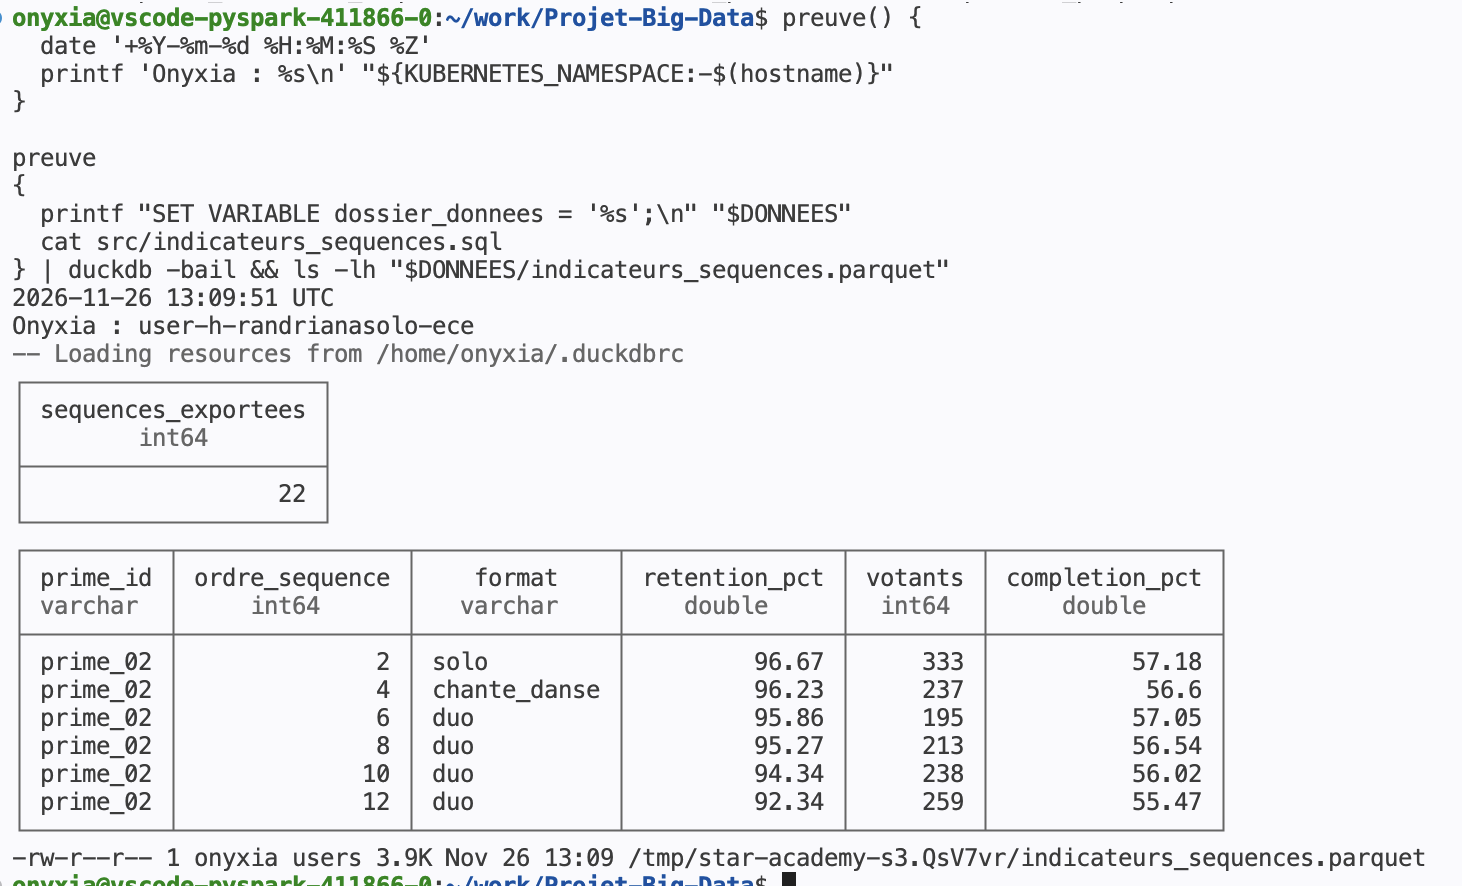
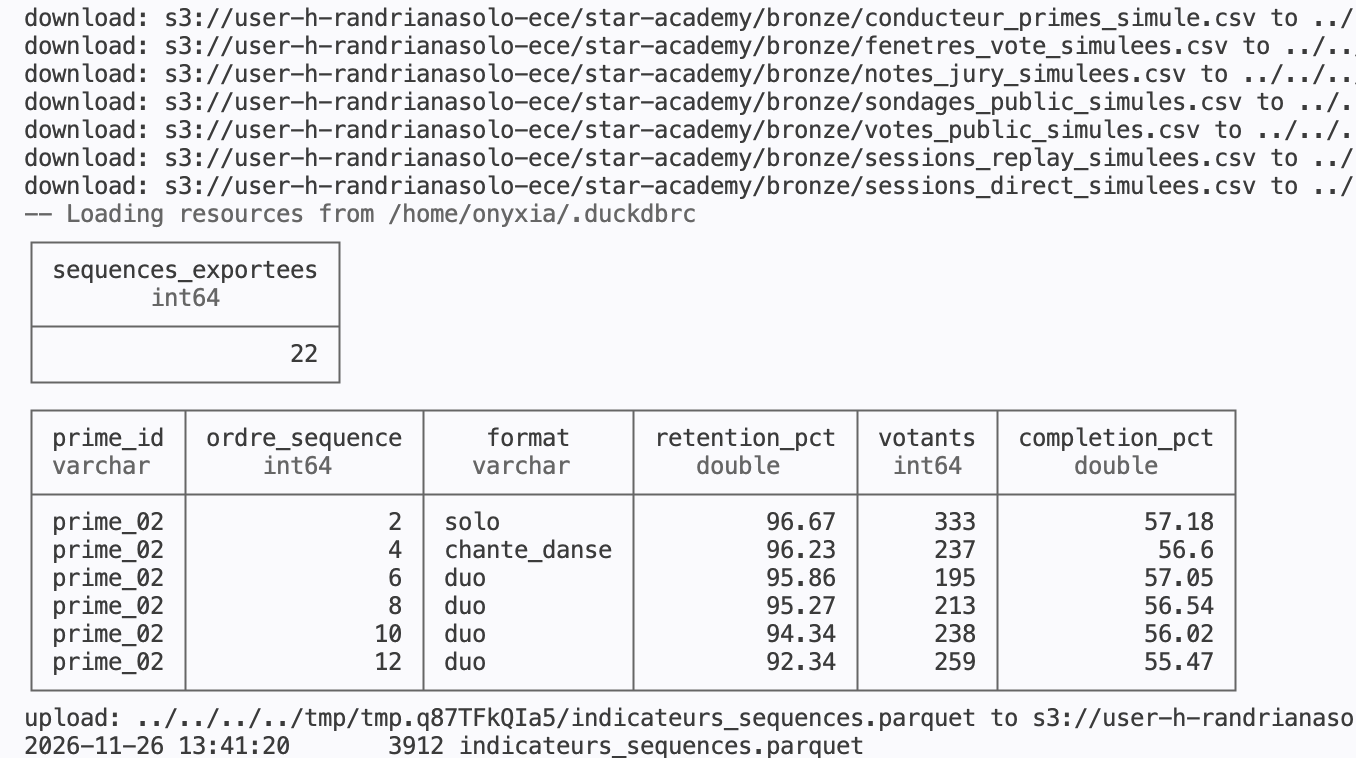
Documente le parcours Bronze et Gold et actualise les captures

Changed region(s): [[0.0, 0.0, 1.0, 1.0], [0.9912, 0.1821, 1.0, 0.2731], [0.9912, 0.0, 1.0, 0.0303]]

diff --git a/README.md b/README.md
@@ -2,33 +2,38 @@
 
 ## Auteurs
 
-- [NOM Prénom]
-- [NOM Prénom]
+- Pia
+- Harisoa
 
 ## Jeu de données
 
-**Star Academy 2025–2026 — audience simulée.** Le jeu a été généré le **26 novembre 2026**. Il comprend **7 CSV, 69 698 lignes et 4 889 399 octets hors compression (4,89 Mo)**. Licence du jeu généré — [à renseigner par les auteurs].
+**Star Academy 2025–2026 — audience simulée** · Généré le **26 novembre 2026** · **7 CSV, 69 698 lignes de données, 4 889 399 octets hors compression (4,89 Mo)**.  
+**Licence du jeu généré** — [à renseigner par les auteurs].
 
-Nous avons utilisé une IA pour effectuer un **relevé ciblé de sources publiques** sur les primes du **25 octobre et du 1er novembre 2025**. Cette méthode a remplacé le scraping automatisé. Le relevé a fourni une sélection de prestations, puis un **générateur Python à graine fixe** a réglé le volume des données simulées pour respecter la limite de 5 Mo et permettre de reproduire les mêmes CSV.
+Nous avons utilisé une IA pour effectuer un relevé ciblé de sources publiques sur les primes des **25 octobre et 1er novembre 2025**. Ce relevé a remplacé le scraping automatisé et fourni une sélection de prestations, avec leurs formats et les artistes invités lorsqu’ils étaient documentés. Un générateur Python à graine fixe a ensuite produit un jeu reproductible dont le volume respecte la limite de **1 à 5 Mo**.
 
-Le **conducteur** associe les prestations documentées à des horaires et à un ordre de passage reconstruits. Les six autres CSV contiennent les sessions de direct, les notes du jury, les sondages du public, les fenêtres de vote, les votes et les lectures en replay. Ces six sources sont simulées. Les résultats décrivent donc le scénario généré. Les URL figurent dans le conducteur et la méthode est détaillée dans [PROVENANCE.md](PROVENANCE.md).
+Le **conducteur** rattache ces prestations à des séquences dont l’ordre et les horaires ont été reconstruits pour le projet. Les six autres CSV simulent les sessions en direct, les notes du jury, les sondages du public, les fenêtres de vote, les votes et les lectures en replay. Ces données permettent de tester ensemble trois formes d’engagement. Les résultats décrivent le scénario simulé. La méthode et les sources sont détaillées dans [PROVENANCE.md](PROVENANCE.md).
 
-Sources publiques — [TF1+ · 25 octobre](https://www.tf1.fr/tf1/star-academy/videos/star-academy-2025-prime-2-partie-1-du-25-octobre-2025-04437941.html) · [TF1+ · 1er novembre](https://www.tf1.fr/tf1/star-academy/videos/star-academy-2025-prime-3-partie-1-du-1-novembre-2025-95947030.html) · [Stars Actu · programme annoncé du 25 octobre](https://www.stars-actu.fr/2025/10/star-academy-les-duos-et-chansons-du-2eme-prime-du-25-octobre-devoiles/)
+[TF1+ · Prime du 25 octobre](https://www.tf1.fr/tf1/star-academy/videos/star-academy-2025-prime-2-partie-1-du-25-octobre-2025-04437941.html) · [TF1+ · Prime du 1er novembre](https://www.tf1.fr/tf1/star-academy/videos/star-academy-2025-prime-3-partie-1-du-1-novembre-2025-95947030.html) · [Stars Actu · Programme annoncé du 25 octobre](https://www.stars-actu.fr/2025/10/star-academy-les-duos-et-chansons-du-2eme-prime-du-25-octobre-devoiles/)
 
 ## Problématique
 
 Quels formats et moments du prime sont associés à la meilleure rétention en direct, au plus grand nombre de votants et à la meilleure complétion en replay ?
 
-## Chemins S3
+## Architecture et chemins S3
 
-| Données | Chemin |
-|---|---|
-| Sept CSV d’entrée | `s3://user-h-randrianasolo-ece/star-academy/raw/` |
-| Indicateurs par séquence | `s3://user-h-randrianasolo-ece/star-academy/processed/indicateurs_sequences.parquet` |
+| Couche | Contenu | Chemin |
+|---|---|---|
+| **Bronze** | Les sept CSV d’entrée | `s3://user-h-randrianasolo-ece/star-academy/bronze/` |
+| **Gold** | Le Parquet final, avec une ligne par séquence | `s3://user-h-randrianasolo-ece/star-academy/gold/indicateurs_sequences.parquet` |
+
+L’AWS CLI récupère les CSV Bronze dans la session Onyxia. DuckDB calcule les indicateurs à partir de ces fichiers, puis l’AWS CLI publie le Parquet dans Gold.
+
+![Vue du stockage Onyxia avec les préfixes Bronze et Gold](capture/00_s3_architecture_bronze_gold.png)
 
 ## Reproduction
 
-Depuis la racine du dépôt, dans le terminal Bash d’Onyxia, avec **AWS CLI**, **DuckDB** et le profil S3 `default` configuré, exécuter le bloc suivant.
+Depuis la racine du dépôt, dans le terminal Bash d’Onyxia, utiliser **AWS CLI**, **DuckDB** et le profil S3 `default` avec les droits de lecture sur Bronze et d’écriture sur Gold.
 
 ```bash
 (
@@ -36,7 +41,7 @@ Depuis la racine du dépôt, dans le terminal Bash d’Onyxia, avec **AWS CLI**,
   S3="s3://user-h-randrianasolo-ece/star-academy"
   DONNEES=$(mktemp -d)
 
-  aws s3 --profile default cp "$S3/raw/" "$DONNEES/" \
+  aws s3 --profile default cp "$S3/bronze/" "$DONNEES/" \
     --recursive --exclude "*" --include "*.csv"
 
   {
@@ -45,7 +50,7 @@ Depuis la racine du dépôt, dans le terminal Bash d’Onyxia, avec **AWS CLI**,
   } | duckdb -bail
 
   aws s3 --profile default cp "$DONNEES/indicateurs_sequences.parquet" \
-    "$S3/processed/indicateurs_sequences.parquet"
+    "$S3/gold/indicateurs_sequences.parquet"
 
   {
     printf "SET VARIABLE resultat_parquet = '%s';\n" "$DONNEES/indicateurs_sequences.parquet"
@@ -54,48 +59,54 @@ Depuis la racine du dépôt, dans le terminal Bash d’Onyxia, avec **AWS CLI**,
 )
 ```
 
-Pour relancer le traitement, rejouer le bloc complet. Chaque exécution récupère les entrées dans un nouveau dossier temporaire et publie le résultat à la même adresse S3. Pour régénérer les entrées, exécuter `python3 src/generer_donnees.py`, puis déposer les sept CSV produits sous `star-academy/raw/`.
+Pour **relancer le pipeline**, rejouer le bloc complet. Il crée un nouveau dossier temporaire et republie le Parquet à la même adresse S3. Pour **reconstituer les entrées**, exécuter `python3 src/generer_donnees.py`, puis déposer les sept CSV produits dans Bronze.
 
 ## Preuves d’exécution
 
-### 01 — Ingestion des données sur S3
+### 01 — Dépôt des données brutes dans Bronze
 
-La liste S3 affiche les **sept CSV** et leur taille cumulée de **4 889 399 octets**. Ce contrôle permet de vérifier que les objets attendus sont disponibles avant le traitement.
+La liste S3 permet de comparer le contenu déposé au jeu attendu, soit **7 CSV et 4 889 399 octets**. Ce contrôle repère un transfert incomplet avant que le pipeline ne lise les fichiers.
 
-![Liste des sept CSV et taille totale sur S3](capture/01_s3_donnees_brutes.png)
+![Liste des sept CSV et taille cumulée dans Bronze](capture/01_s3_donnees_brutes.png)
 
 ### 02 — Lecture du conducteur dans DuckDB
 
-DuckDB lit la copie du conducteur téléchargée depuis S3 dans Onyxia et compte **22 séquences, dont 10 prestations**. Le conducteur fournit les horaires et les identifiants qui permettent de rattacher les événements aux séquences.
+DuckDB lit la copie du conducteur récupérée depuis S3 et compte **22 séquences, dont 10 prestations**. Le conducteur fournit les horaires pour rattacher les événements du direct aux séquences et les identifiants de prestation pour relier les replays.
 
 ![Lecture du conducteur et comptage des séquences et prestations](capture/02_duckdb_lecture_csv.png)
 
 ### 03 — Contrôles qualité avant les jointures
 
-Les requêtes vérifient l’unicité des identifiants de séquence et de vote, l’unicité des fenêtres et la validité du rattachement des votes. Une clé de fenêtre dupliquée pourrait compter deux fois un même vote. Un vote hors fenêtre doit être écarté du calcul.
+Les contrôles portent sur l’unicité des identifiants de séquence et de vote, l’unicité des clés de fenêtre et la validité du rattachement des votes. Une fenêtre dupliquée pourrait multiplier les votes à la jointure. Le contrôle temporel vérifie qu’un vote se situe entre l’ouverture incluse et la fermeture exclue.
 
 ![Compteurs des contrôles qualité dans DuckDB](capture/03_duckdb_controles_qualite.png)
 
 ### 04 — Calcul des indicateurs par séquence
 
-Le SQL agrège le direct, les votes et les replays séparément avant de les joindre au conducteur. Cela évite, par exemple, de répéter un vote pour chaque lecture replay. La sortie contient **une ligne par séquence**, avec les effectifs nécessaires pour interpréter les taux.
+Le pipeline agrège le direct, les votes et les replays séparément avant de les joindre au conducteur. Cela évite de compter un vote autant de fois qu’il y a de lectures en replay. La sortie conserve **une ligne par séquence**, avec les effectifs utilisés pour calculer et interpréter les taux.
 
 ![Exécution du pipeline DuckDB et aperçu des indicateurs](capture/04_duckdb_execution_pipeline.png)
 
-### 05 — Publication du résultat sur S3
+### 05 — Publication du résultat dans Gold
 
-Le fichier `indicateurs_sequences.parquet` apparaît dans `processed/` avec une taille de **3 901 octets**. Cette étape rend le résultat accessible après la fin de la session Onyxia et permet de le retélécharger pour la vérification.
+Le fichier `indicateurs_sequences.parquet` est publié sous `gold/`. La liste S3 vérifie que le résultat est disponible après la fin de la session Onyxia et qu’il peut être récupéré pour une autre analyse.
 
-![Fichier Parquet publié dans le préfixe processed](capture/05_s3_donnees_traitees.png)
+![Fichier Parquet des indicateurs publié dans Gold](capture/05_s3_donnees_traitees.png)
 
-### 06 — Vérification indépendante
+### 06 — Vérification indépendante du comptage
 
-Un calcul Python repart des CSV bruts et utilise les horaires de la séquence et de sa fenêtre de vote. Pour `prime_02_seq_02`, il retrouve **333 votes et 333 votants distincts**, les mêmes valeurs que dans le Parquet téléchargé depuis S3.
+Python relit les CSV bruts et recompte les votes dans les bornes de la séquence et de la fenêtre de vote. Pour `prime_02_seq_02`, il retrouve **333 votes et 333 votants distincts**, comme dans le Parquet récupéré depuis S3. Cet accord vérifie le comptage sur une séquence avec une autre implémentation.
 
 ![Comparaison du recomptage Python et des valeurs du Parquet](capture/06_verification_independante.png)
 
 ### 07 — Comparaison des formats et des moments du prime
 
-Dans la simulation, la rétention atteint **94,97 % en début de prime** et **86,43 % en fin de prime**, soit **8,54 points d’écart**. Le solo affiche la meilleure complétion parmi les formats observés (**56,52 %**, sur deux prestations). Le battle arrive en tête pour les votants (**629**, sur une seule séquence). Les effectifs par groupe et l’ouverture des fenêtres de vote sont à prendre en compte pour interpréter ces résultats.
+| Indicateur | Résultat dans la simulation |
+|---|---|
+| **Rétention en direct** | **94,97 % en début de prime** et **86,43 % en fin de prime**, soit **8,54 points d’écart**. |
+| **Vote** | Le battle réunit **629 votants**, sur une seule séquence. |
+| **Complétion en replay** | Le solo arrive en tête des formats observés, avec **56,52 %** sur deux prestations. |
+
+Les effectifs par groupe aident à interpréter le classement. Le nombre de votants dépend aussi des fenêtres de vote. Les résultats portent sur deux primes simulés à partir d’une sélection de prestations publiques.
 
 ![Tableau comparatif de la rétention, des votants et de la complétion](capture/07_comparaison_formats_moments.png)
